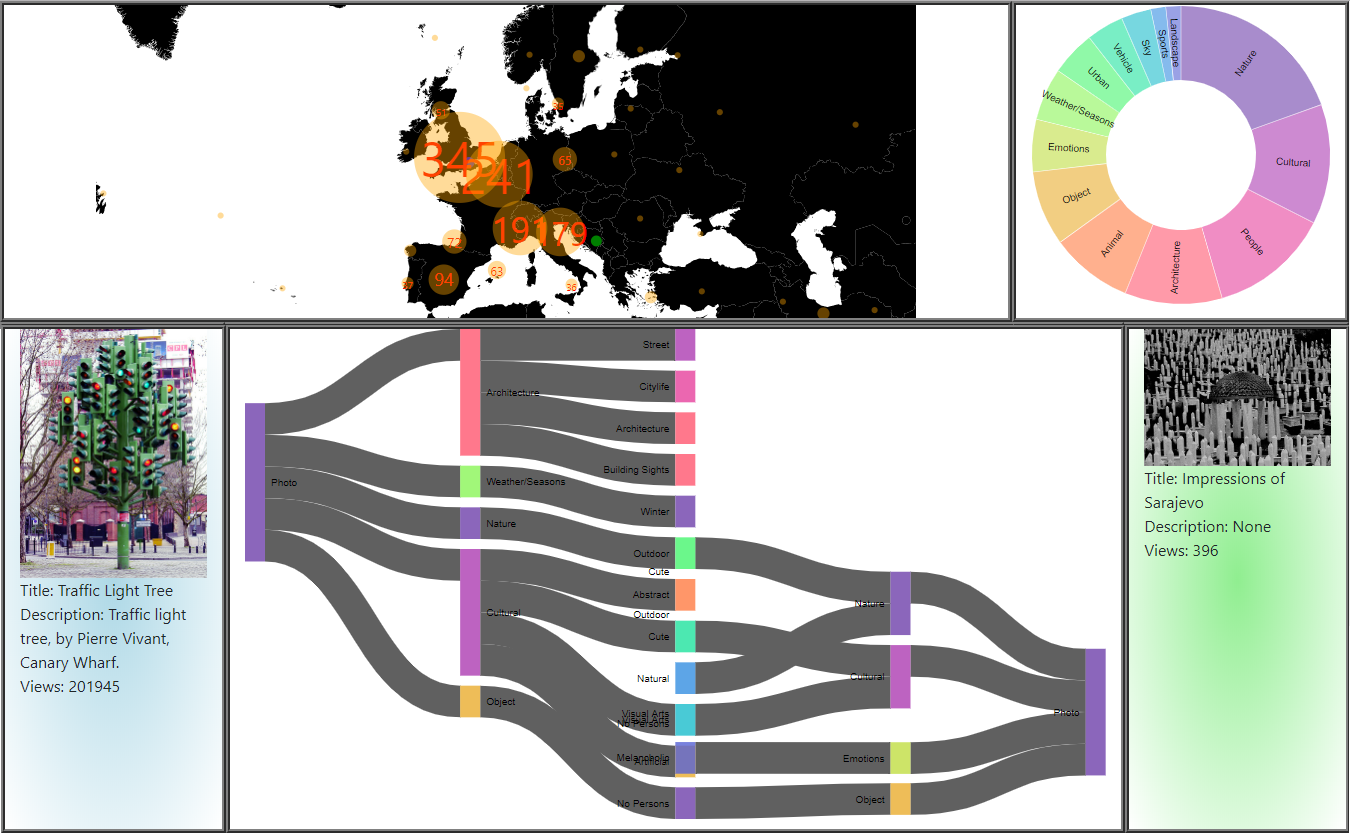
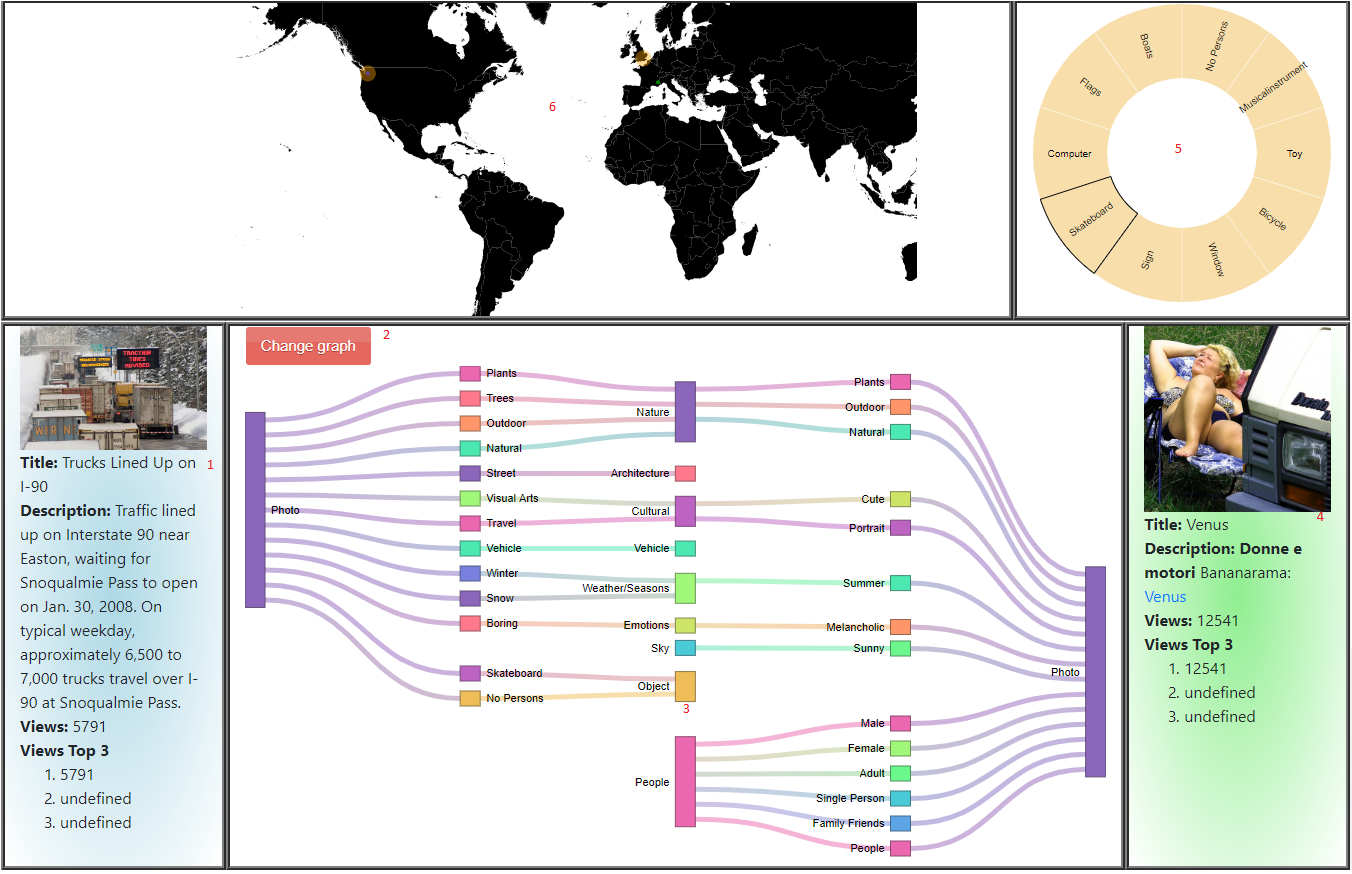
Frontpage changes

diff --git a/index.html b/index.html
@@ -17,33 +17,42 @@
         <script src="https://stackpath.bootstrapcdn.com/bootstrap/4.3.1/js/bootstrap.min.js" integrity="sha384-JjSmVgyd0p3pXB1rRibZUAYoIIy6OrQ6VrjIEaFf/nJGzIxFDsf4x0xIM+B07jRM" crossorigin="anonymous"></script>
     </head>
     <body>
-        <div class="box1 col-12" id = "title">
-            FlICKR Photo searching
-        </div>
         <div class="container-fluid">
             <div class="row" id="first-row">
-                <div class="box1 col-9" id="worldmap"></div>
-                <div class="box2 col-3" id="labelselector"></div>
-            </div>
-            <div class="row" id="first-row">
-                <div class="box4 col-2" id="photo1"></div>
-
-                <div class="box3 col-8" >
-                <div class="row" >
-                        <button class = "col-4" id = "change" onclick="changegraph()"> Change graph </button>
-                        <p class = "col-4" id="text-change" value= "change" > Select photo to show graph</p>
+                <div class="box1 col-12">
+                    <div> <a href="visualization.html" class = "next">Continue</a></div>
                 </div>
-
-                    <div class = col-12 id = "chart">
-                    </div>
-
+            <div class="row" id="second-row">
+                <div class="box1 col-3">
+                    <p>
+                        Welcome to the interactive visualization of a dataset of photos from flickr. This visualization let's you pick photographs from their geographic location. Then a common ground between these photo's is shown in graph that is drawn after making your choices. This graph shows how through the labels the common categories are depicted or how through the categories the common labels are depicted. Underneath are a couple of examples on why and how this is usefull and what this visualization can bring you, although it is also for every other person interested in flickr photos and their relations. 
+                    </p>
+                    <ol type="1">
+                        <li>If for example you are a social media influencer and wants to increase your views and social reach. To do so, you want to explore possibilities of adding more hashtags. These hashtags and categories can be searched in our visualization. By searching two differents photos with similar characteristics you can oversee the common tags or categories and use this for his new hashtags or as inspiration for your posts. With the statistics of the photo’s added you can also see the views of the photos on flickr and the potential. Furthermore, locations with more views and new possible hotspots for your new posts can also be discovered. </li>
+                        <li>Or, for example you are a flickr user and want to add categories or tags to your photos but being new to the photography field you have no clue how to properly describe your photo. With the sunburst filter option you can select categories where you thinks your photo belongs to, search the map for similar photos and get inspiration for categories/labels/tags.</li>
+                        <li>Or, as a experencied user wants to search for hotspots for new photo locations, searching your favorite category or tag you can compare two hotspots and the views. The statistics of the geography show the comparison between the hotspots and the labels and tags show you if the photos are describing your favorite subjects.</li>
+                    </ol>
                 </div>
-
-                <div class="box4 col-2" id="photo2"></div>
+                <div class="box1 col-6">
+                    <img src="example.png" style="height:80%;width:80%">
+                </div>
+                <div class="box1 col-3">
+                    <p>
+                        Underneath is shown what the function of every part of the visualization is, the numbers in the list can be found to the left on the image describing for numbered parts how this works and what can be done.
+                    </p>
+                    <ol type="1">
+                        <li>World map displaying flickr photos and their geographic locations. Locations with a dense grid of photos are aggregated and on hover or click show the photo with the most views.</li>
+                        <li>Sunburst visualization to filter the world map photos. The first layer is the categories and the second layer the tags for the chosen category.</li>
+                        <li>Photo 1, shown as an green dot on the map, which is the exact location taken from the aggregated photos. Furthermore are the descriptions shown underneath the photos</li>
+                        <li>Photo 2, shown as an blue dot on the map, which is the exact location taken from the aggregated photos. Furthermore are the descriptions shown underneath the photos</li>
+                        <li>Sankey diagram showing the relationship between the two clicked photos. The first layer from left or right are the categories of the photos. The second layer is tags of both photos, the common tags have a connection comming from left and right.</li>
+                    </ol>
+                </div>
+                
             </div>
         </div>
     </body>
     <script src="./map.js"></script>
-    <script src="./graph2version2.js"></script>
+    <script src="./graph2.js"></script>
     <script src="./sunburst.js"></script>
 </html>

diff --git a/style.css b/style.css
@@ -80,3 +80,11 @@ button#change{
 button#change:hover{
     background-color: lightblue;
 }
+
+p{
+ font-size:0.75rem
+}
+
+li{
+ font-size:0.7rem
+}

diff --git a/database.php b/database.php
@@ -1,3 +1,3 @@
 <?PHP
-    $link = mysqli_connect("localhost", "root", "root", "flickr");
+    $link = mysqli_connect("localhost", "root", "", "flickr");
 ?>
